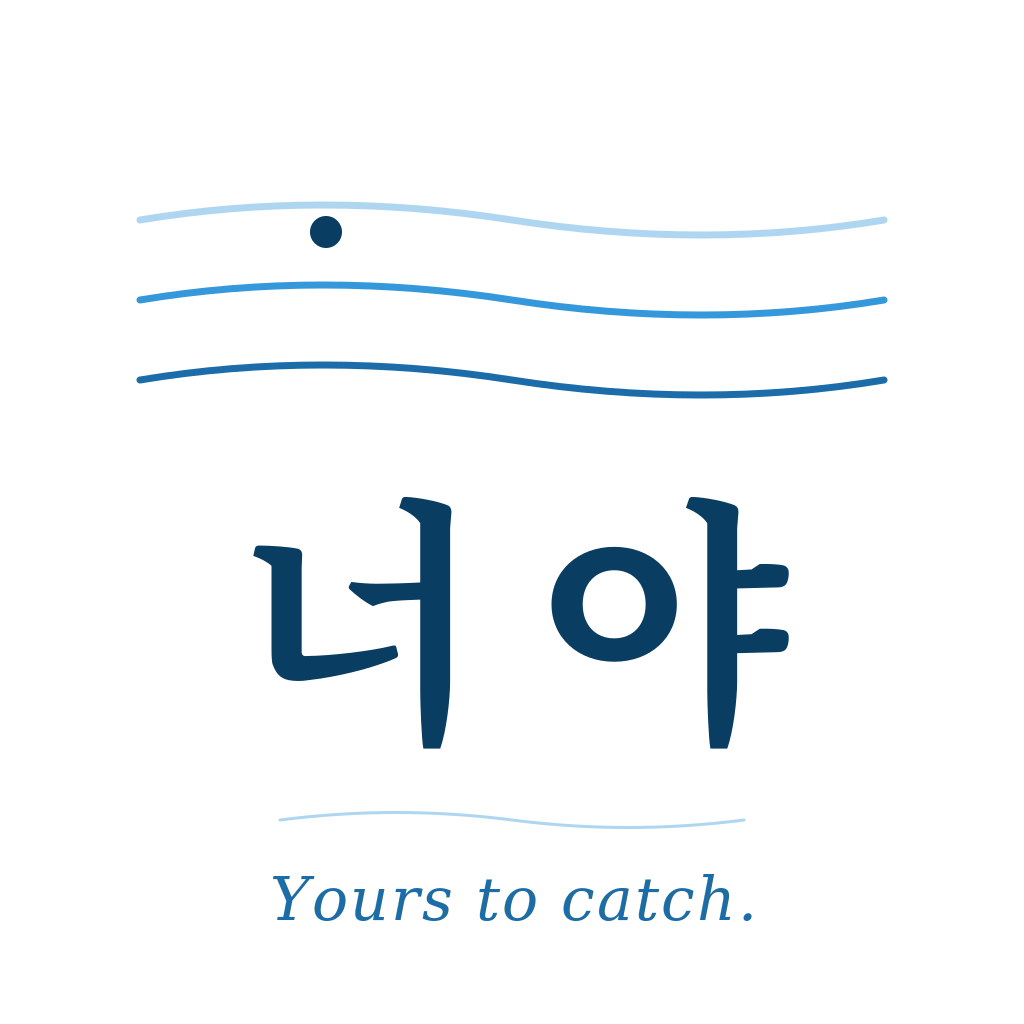
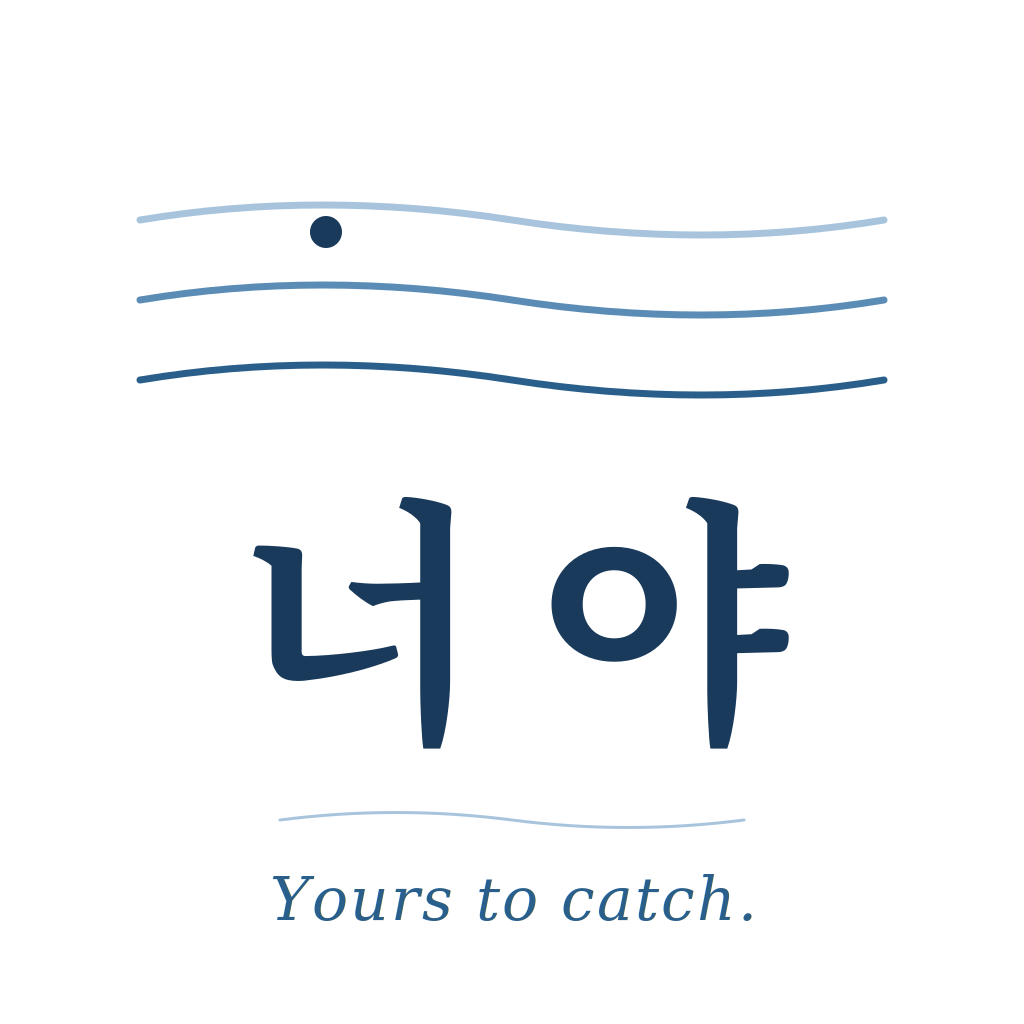
브랜드 색 정본 통일 — 로고·README·통계 화면·QR·PDF 생성기 색을 디자인 시스템 정본 팔레트로
대표님 결정(D-2091 §7.16 「정본 통일」): 로고 잉크색을 브랜드 마스터색에서
NEOYA Design System 정본 팔레트로 통일한다.

- assets/, frontend/assets/ 로고 8종(SVG 4 · PNG 4): 정본색 버전으로 교체(형태 동일)
- README 컬러 시스템 표: #1A3A5C · #2B5F8B · #5A8CB5 · #A8C4DD · #F5F9FC
- frontend/app.js QR 코드 색: #1A3A5C
- frontend/stats.html · apps_script/Code.gs · scripts/generate.mjs 의 마스터색 4종을 정본색으로 1:1 치환
- evidence/ 제출 증빙 문서와 *.pre_* 백업은 기록이므로 그대로 둔다

Claude-Session: https://claude.ai/code/session_01UoSPcHxQdd7svXr7DvNh42

diff --git a/frontend/stats.html b/frontend/stats.html
@@ -9,11 +9,11 @@
 <link href="https://fonts.googleapis.com/css2?family=Noto+Serif+KR:wght@600;700&display=swap" rel="stylesheet" />
 <link rel="stylesheet" as="style" crossorigin href="https://cdn.jsdelivr.net/gh/orioncactus/pretendard@v1.3.9/dist/web/static/pretendard.min.css" />
 <style>
-  :root{--deep:#0A3D62;--ocean:#1B6CA8;--sky:#3498DB;--wave:#AED6F1;--mist:#EAF4FB;--line:#D6E9F5;--ink:#12222f;--muted:#5A7890;--serif:"Noto Serif KR",serif;--sans:"Pretendard","Noto Sans KR",system-ui,sans-serif}
+  :root{--deep:#1A3A5C;--ocean:#2B5F8B;--sky:#5A8CB5;--wave:#A8C4DD;--mist:#EAF4FB;--line:#D6E9F5;--ink:#12222f;--muted:#5A7890;--serif:"Noto Serif KR",serif;--sans:"Pretendard","Noto Sans KR",system-ui,sans-serif}
   *{box-sizing:border-box;margin:0;padding:0}
   body{font-family:var(--sans);color:var(--ink);background:#f4f8fc;line-height:1.55;-webkit-font-smoothing:antialiased}
   .wrap{max-width:960px;margin:0 auto;padding:0 18px}
-  header{background:linear-gradient(155deg,#0A3D62,#1B6CA8);color:#fff;padding:26px 0 22px}
+  header{background:linear-gradient(155deg,#1A3A5C,#2B5F8B);color:#fff;padding:26px 0 22px}
   header .wrap{display:flex;align-items:center;justify-content:space-between;flex-wrap:wrap;gap:10px}
   header h1{font-family:var(--serif);font-size:1.2rem;font-weight:700}
   header .live{font-size:.78rem;color:#d9ecf7;display:flex;align-items:center;gap:7px}
@@ -29,7 +29,7 @@
   .row{display:flex;align-items:center;gap:10px;margin:7px 0;font-size:.86rem}
   .row .k{width:96px;color:var(--muted);flex:none}
   .bar{flex:1;background:#eef4fa;border-radius:7px;height:16px;overflow:hidden}
-  .bar span{display:block;height:100%;background:linear-gradient(90deg,#2B5F8B,#3498DB);border-radius:7px}
+  .bar span{display:block;height:100%;background:linear-gradient(90deg,#2B5F8B,#5A8CB5);border-radius:7px}
   .row .v{width:40px;text-align:right;font-weight:700;color:var(--deep);flex:none}
   .empty{color:var(--muted);font-size:.86rem;text-align:center;padding:22px}
   .foot{text-align:center;color:var(--muted);font-size:.76rem;margin-top:10px}
@@ -37,7 +37,7 @@
   .gate h2{font-family:var(--serif);color:var(--deep);margin-bottom:6px}
   .gate p{color:var(--muted);font-size:.85rem;margin-bottom:16px}
   .gate input{width:100%;border:1.5px solid var(--line);border-radius:10px;padding:11px 12px;font-size:.95rem;font-family:inherit;margin-bottom:10px}
-  .gate button{width:100%;background:linear-gradient(135deg,#0A3D62,#2B5F8B);color:#fff;border:none;border-radius:10px;padding:12px;font-weight:800;cursor:pointer;font-family:inherit}
+  .gate button{width:100%;background:linear-gradient(135deg,#1A3A5C,#2B5F8B);color:#fff;border:none;border-radius:10px;padding:12px;font-weight:800;cursor:pointer;font-family:inherit}
   .gate .err{color:#c0392b;font-size:.78rem;min-height:1em;margin-top:8px}
   .btn-refresh{background:#fff;color:var(--deep);border:1.5px solid var(--line);border-radius:9px;padding:7px 13px;font-weight:700;font-size:.8rem;cursor:pointer;font-family:inherit}
 </style>

diff --git a/frontend/app.js b/frontend/app.js
@@ -115,7 +115,7 @@ function generateQRCode() {
       text: TARGET_URL,
       width: 196,
       height: 196,
-      colorDark: '#0A3D62',     // SSoT 토큰 --neoya-deep-blue 와 동일 값
+      colorDark: '#1A3A5C',     // SSoT 토큰 --neoya-primary-deep 과 동일 값
       colorLight: '#FFFFFF',    // SSoT 토큰 --neoya-white 와 동일 값
       correctLevel: QRCode.CorrectLevel.H  // 고에러정정 (모바일 카메라 인식 안정성)
     });

diff --git a/README.md b/README.md
@@ -134,15 +134,15 @@ neoya-download/
 
 ## 🎨 브랜드 디자인 시스템
 
-### 컬러 시스템 (너야 SSoT)
+### 컬러 시스템 (너야 SSoT · NEOYA Design System 정본)
 
 | 이름 | HEX | 용도 |
 |------|------|------|
-| 딥 블루 | `#0A3D62` | 주요 타이포·심볼·신뢰의 축 |
-| 오션 블루 | `#1B6CA8` | 서브 타이포·표 강조 |
-| 스카이 블루 | `#3498DB` | 액센트·링크·희망의 축 |
-| 라이트 웨이브 | `#AED6F1` | 배경·잔물결 레이어 |
-| 소프트 미스트 | `#EAF4FB` | 섹션 배경·인용구 |
+| 딥 블루 | `#1A3A5C` | 주요 타이포·심볼·신뢰의 축 |
+| 미드 블루 | `#2B5F8B` | 서브 타이포·표 강조·그라디언트 종점 |
+| 스카이 블루 | `#5A8CB5` | 로고 파도 중간 라인·보조 강조 |
+| 라이트 웨이브 | `#A8C4DD` | 파도 라인·구분선·잔물결 레이어 |
+| 폼 화이트 | `#F5F9FC` | 섹션 배경·인용구 |
 
 ### 타이포그래피 (한글 전용)
 
